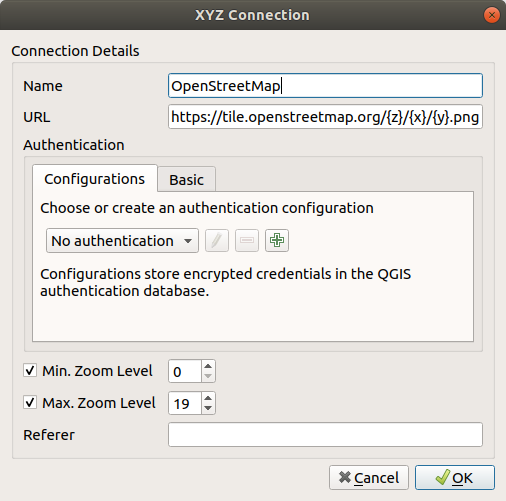
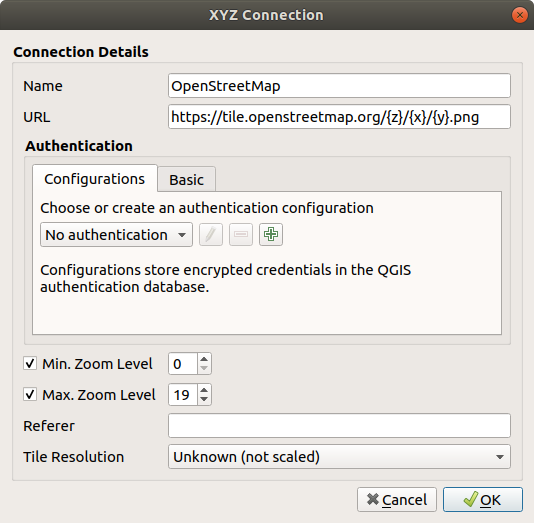
XYZ Tiles can be loaded through Data Source Manager dialog
(and not only via Browser panel)

diff --git a/docs/user_manual/managing_data_source/opening_data.rst b/docs/user_manual/managing_data_source/opening_data.rst
@@ -1293,12 +1293,21 @@ connect to ArcGIS Vector Tile Services.
 Using XYZ Tile services
 -----------------------
 
-XYZ Tile services can be found in the :guilabel:`XYZ Tiles` top level
-entry in the :guilabel:`Browser`.
-By default, the OpenStreetMap XYZ Tile service is configured. You can
-add other services that use the XYZ Tile protocol by choosing
-:guilabel:`New Connection` in the XYZ Tiles context menu (right-click
-to open).
+XYZ Tile services can be added via the |addXyzLayer| :guilabel:`XYZ` tab
+of the :guilabel:`Data Source Manager` dialog or the contextual menu of the
+:guilabel:`XYZ Tiles` entry in the :guilabel:`Browser` panel.
+Press :guilabel:`New` (respectively :guilabel:`New Connection`) and provide:
+
+* a :guilabel:`Name`
+* the :guilabel:`URL`
+* the :guilabel:`Authentication` configuration if necessary
+* the :guilabel:`Min. Zoom level` and :guilabel:`Max. Zoom level`
+* a :guilabel:`Referer`
+* the :guilabel:`Tile Resolution`: possible values are
+  :guilabel:`Unknown (not scaled)`, :guilabel:`Standard (256x256 / 96DPI)`
+  and :guilabel:`High (512x512 / 192DPI)`
+
+By default, the OpenStreetMap XYZ Tile service is configured.
 :numref:`figure_xyz_tiles_openstreetmap` shows the dialog with the OpenStreetMap
 XYZ Tile service configuration.
 
@@ -1309,9 +1318,8 @@ XYZ Tile service configuration.
 
    XYZ Tiles - OpenStreetMap configuration
 
-Configurations can be saved (:guilabel:`Save Connections`) to XML
-and loaded (:guilabel:`Load Connections`) through the context menu.
-Authentication configuration is supported.
+Part or all the configured tile services can be saved (:guilabel:`Save`)
+to XML and loaded (:guilabel:`Load`) through the context menu.
 The XML file for OpenStreetMap looks like this:
 
 .. code-block:: xml
@@ -1323,16 +1331,19 @@ The XML file for OpenStreetMap looks like this:
      authcfg="" referer=""/>
   </qgsXYZTilesConnections>
 
-Once a connection to a XYZ tile service is set, right-click over the entry to:
+Once a connection to a XYZ tile service is set, it's possible to:
 
-* :guilabel:`Edit...` the XYZ connection settings
-* :guilabel:`Delete` the connection
-* :menuselection:`Export layer... --> To File`, :ref:`saving it as a raster
-  <general_saveas>`
-* :guilabel:`Add layer to project`: a double-click also adds the layer
-* View the :guilabel:`Layer Properties...` and get access to metadata and
-  a preview of the data provided by the service.
-  More settings are available when the layer has been loaded into the project.
+* :guilabel:`Edit` the XYZ connection settings
+* :guilabel:`Remove` the connection
+* From the :guilabel:`Browser` panel, right-click over the entry
+  and you can also:
+
+  * :menuselection:`Export layer... --> To File`, :ref:`saving it as a raster
+    <general_saveas>`
+  * :guilabel:`Add layer to project`: a double-click also adds the layer
+  * View the :guilabel:`Layer Properties...` and get access to metadata and
+    a preview of the data provided by the service.
+    More settings are available when the layer has been loaded into the project.
 
 
 Examples of XYZ Tile services:
@@ -1375,6 +1386,8 @@ Examples of XYZ Tile services:
 .. |addRasterLayer| image:: /static/common/mActionAddRasterLayer.png
    :width: 1.5em
 .. |addSpatiaLiteLayer| image:: /static/common/mActionAddSpatiaLiteLayer.png
+   :width: 1.5em
+.. |addXyzLayer| image:: /static/common/mActionAddXyzLayer.png
    :width: 1.5em
 .. |afs| image:: /static/common/mIconAfs.png
    :width: 1.5em
